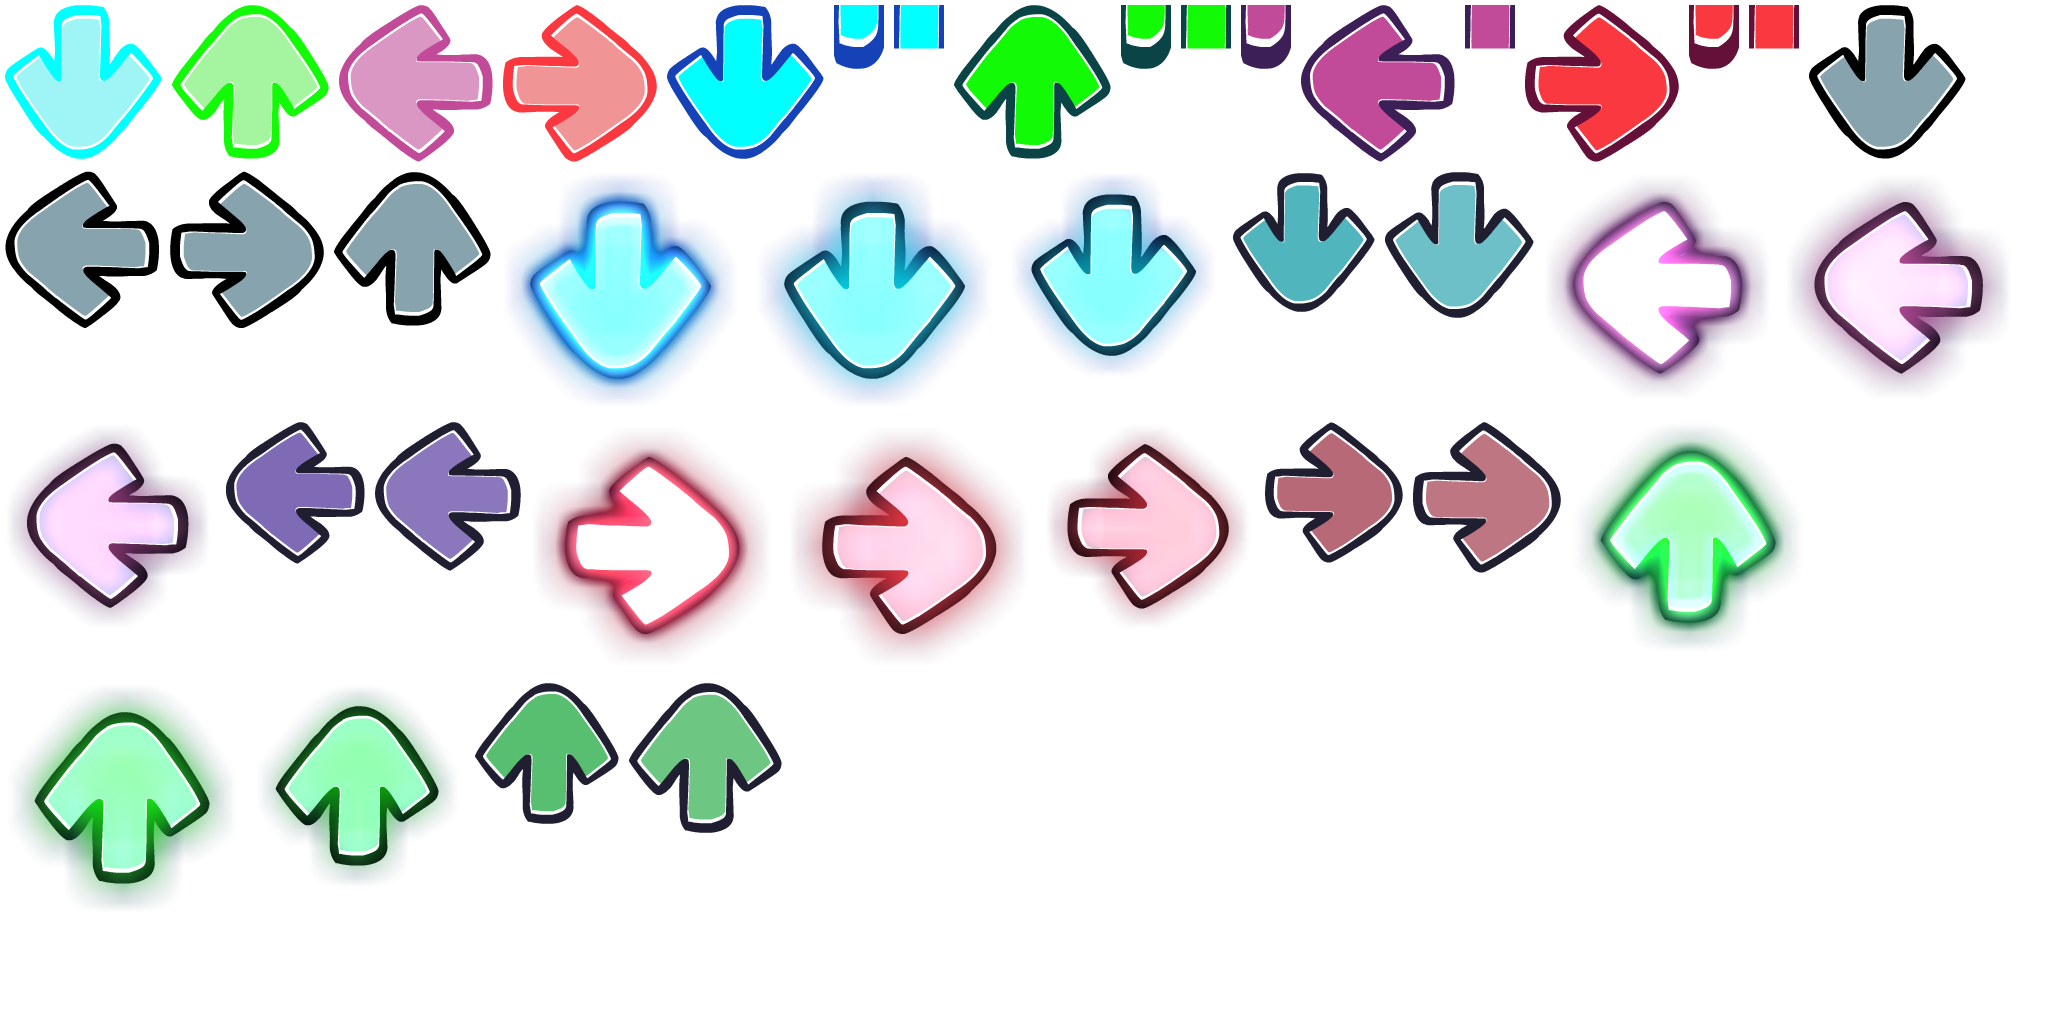
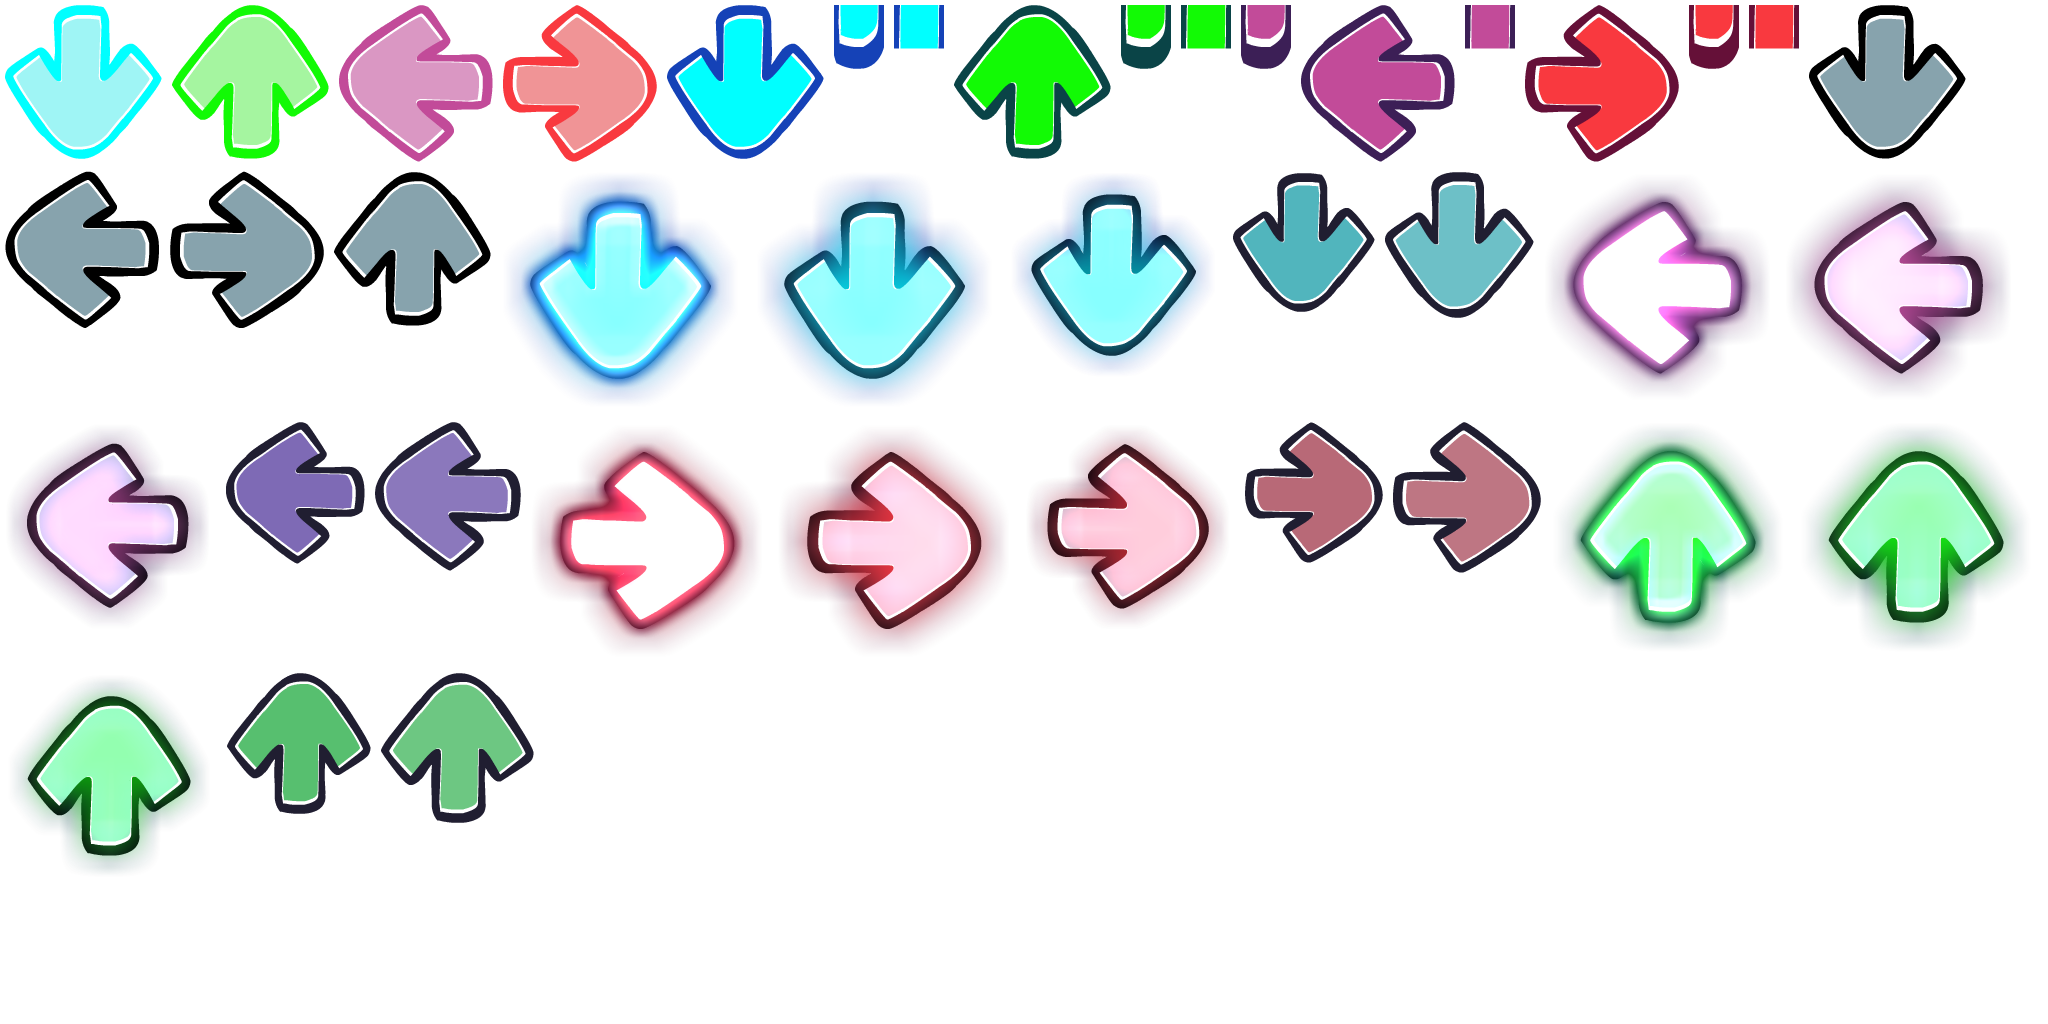
Fixin' some broken values.
Fucked up the glow on the red note press causing it to move more than other notes. Also adjusted the offsets for the notes so that they should actually just stay in place now.

Changed region(s): [[0.25, 0.4062, 1.0, 0.625], [0.0, 0.6562, 0.4062, 0.9062]]

diff --git a/README.md b/README.md
@@ -39,13 +39,13 @@ Adjusted some of the health icons and adds winning icons.
     
     - You can ignore is the part about ignored files since FPS Plus removes them.
 
-- You'll also want to follow the instructions for haxeflixel video [here](https://github.com/GrowtopiaFli/openfl-haxeflixel-video-code).
-
-    - But instead, install my fork of the webm extension with this: 
+- Install my fork of `extension-webm`:
 
     - `haxelib git extension-webm https://github.com/ThatRozebudDude/extension-webm`
 
-    - \(All my fork does is allow you to changing the max amount of frameskip.\)
+        - `KadeDev's fork should also work, so if you have that, you should be set.`
+
+    - And then run `lime rebuild extension-webm [windows/mac/linux]`. Change the target OS based on your system.
 
     - Alternatively if the fork isn't working, you can just delete this line in Main.hx
 
@@ -61,6 +61,6 @@ Adjusted some of the health icons and adds winning icons.
 - [Rozebud](https://twitter.com/helpme_thebigt) - *Everything*
 
 ### Shoutouts
-- [KadeDev](https://twitter.com/KadeDeveloper) - Occasional code advice. (Sometime I don't listen though...)
+- [KadeDev](https://twitter.com/KadeDeveloper) - *Rival*
 - [GWebDev](https://twitter.com/GFlipaclip) - Haxeflixel Video
 - [Ethab Taxi](https://twitter.com/EthabTaxi) - He's just sorta chillin'.
